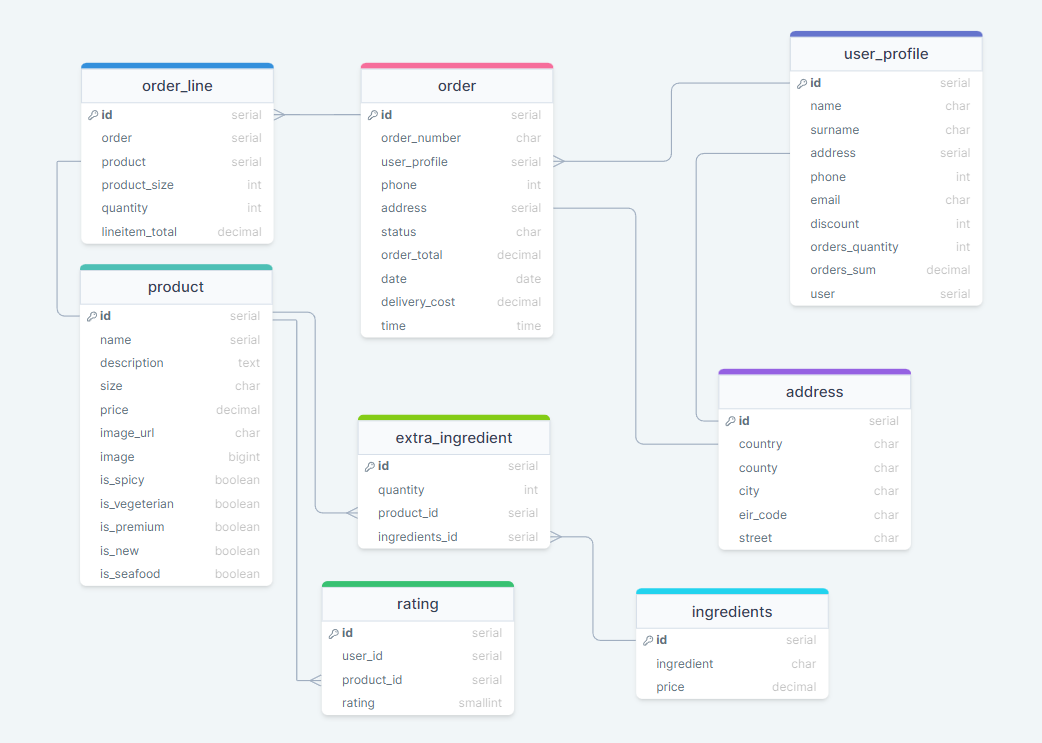
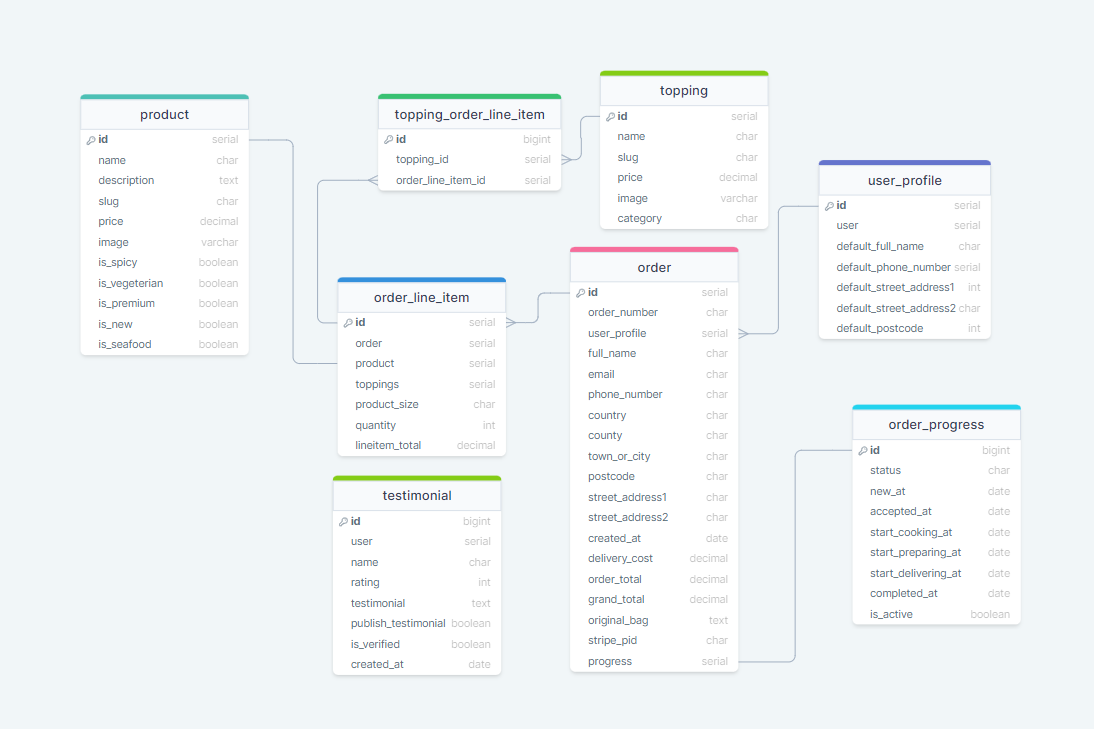
docs: change database schema image (README)

diff --git a/README.md b/README.md
@@ -120,7 +120,6 @@ Our platform includes a secure online payment system and provides an option to t
 
 ![Facebook mockup](./README/facebook/mockup.png)
 
-*Go back to the [top](#super-pizza)*
 
 ## Features
 
@@ -128,7 +127,6 @@ Our platform includes a secure online payment system and provides an option to t
 
 ### Features to Implement
 
-*Go back to the [top](#super-pizza)*
 
 ## Testing
 
@@ -570,7 +568,6 @@ Our platform includes a secure online payment system and provides an option to t
 
 ### Bugs
 
-*Go back to the [top](#super-pizza)*
 
 ## Deployment
 
